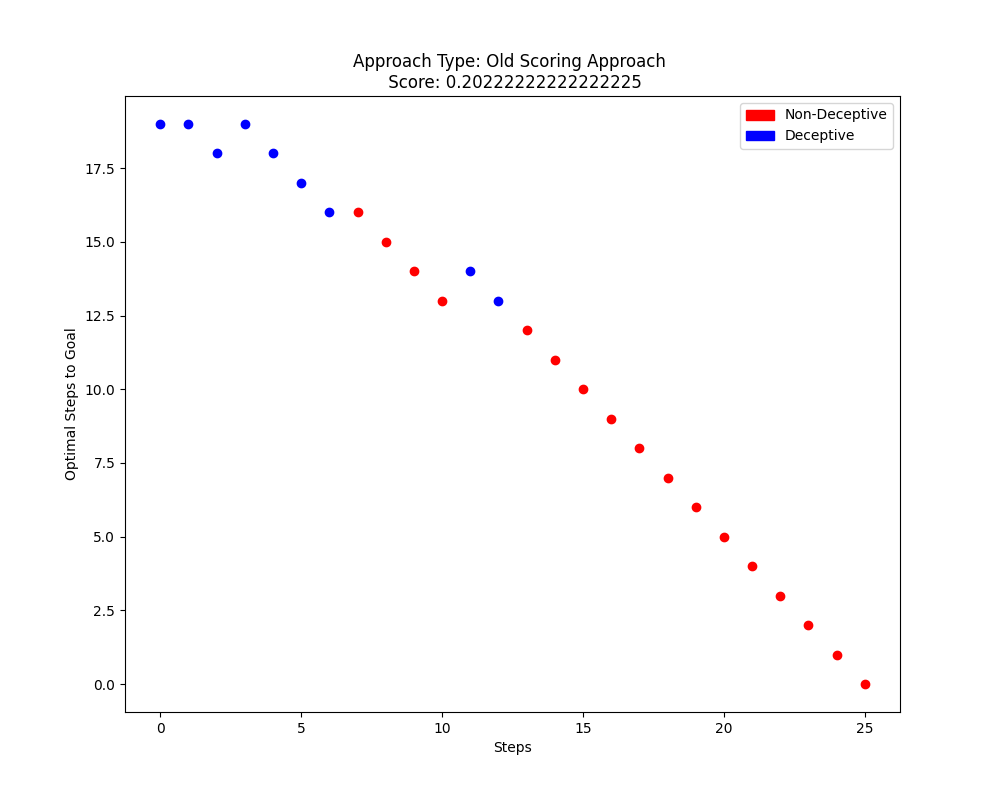
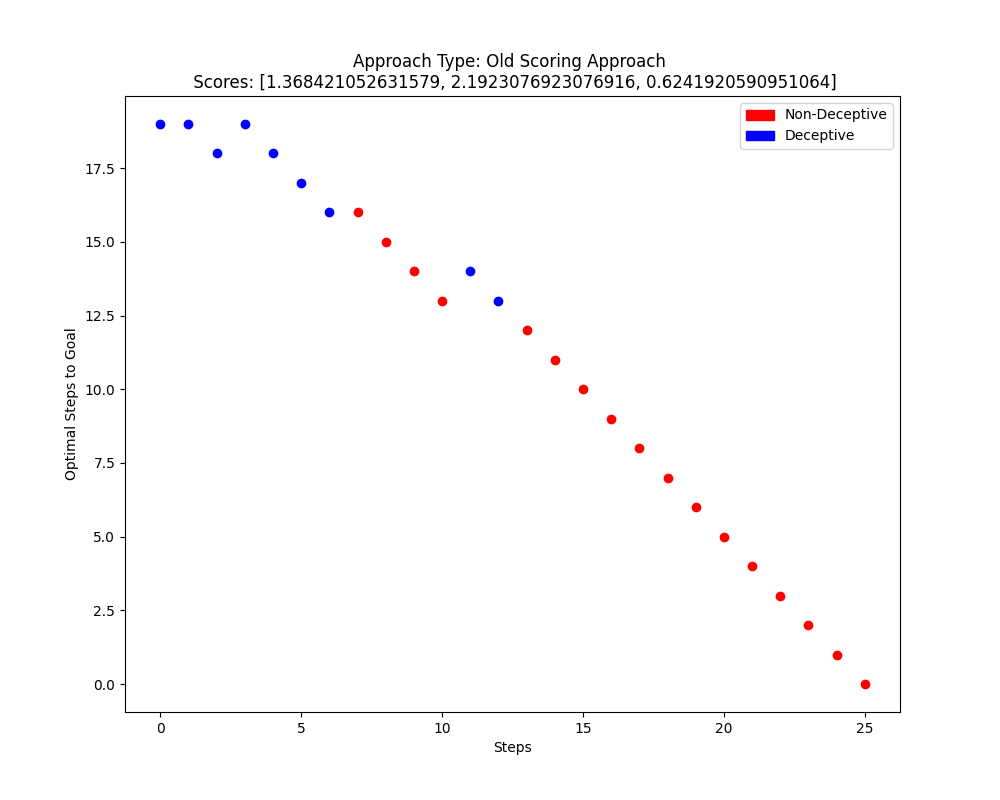
checkpoint

Changed region(s): [[0.186, 0.0938, 0.837, 0.125]]

diff --git a/Landmark Planning/pyperplan-master/landmarkextraction.py b/Landmark Planning/pyperplan-master/landmarkextraction.py
@@ -104,7 +104,9 @@ class ExtractLandmarks():
         return os.path.join(self.TEMP_DIR, name)
 
     def parse_goal(self, goal):
+        print("parsing ", goal)
         parsedgoals = re.findall('\([A-Za-z0-9 ]*\)', goal)
+        print("parsed", parsedgoals)
         return parsedgoals
 
     def generate_optimal(self):
@@ -267,23 +269,108 @@ class NewScoringApproach(ApproachTemplate):
         mem_dict = {}
         # PICKING LANDMARKS
 
-        def ordering_score(landmark):
+        def ordering_score(landmark, foundLandmarks=[]):
+            print("F", foundLandmarks)
             ''' Order landmarks based on similiarity to the initial task '''
-            score = mem_dict.get(frozenset(landmark))
+            input()
+            core = mem_dict.get(frozenset(landmark))
+            print(landmark, score)
             if not score:
                 # calculate score if it isnt already in the dictionary
                 initialTask = self.l.initialTask
                 initialTask.goals = landmark
                 # get the landmarks of this landmark
                 landmarks = get_landmarks(initialTask)
+                print(landmarks, set(landmark).issubset(set(landmarks)))
                 if set(landmark).issubset(set(landmarks)):
                     for l in landmark:
+                        print("removed ", l)
                         landmarks.remove(l)
-                score = sum([ordering_score(self.l.parse_goal(lm))
+                foundLandmarks.append(landmark)
+                print("L", landmarks)
+                for l in landmarks:
+                    # print("HI", [l], landmarks)
+                    if [l] in foundLandmarks:
+                        # print("R2", l)
+                        landmarks.remove(l)
+                print(landmarks)
+                score = sum([ordering_score(self.l.parse_goal(lm), foundLandmarks)
                              for lm in landmarks]) + 1
                 mem_dict[frozenset(landmark)] = score
-
+            print("RETURN")
             return score
+
+        def ordering_score2(landmark, combinedLandmarks, foundLandmarks=[]):
+
+            # def list_subgoals(landmark, combinedLandmarks, foundLandmarks=[]):
+            #     print(foundLandmarks)
+            #     print(landmark)
+            #     print(landmark[0] in foundLandmarks)
+            #
+            #     if landmark[0] in foundLandmarks:
+            #         return []
+            #     initialTask = self.l.initialTask
+            #     initialTask.goals = landmark
+            #     landmarks = get_landmarks(initialTask)
+            #     print(landmarks)
+            #     print("~~~~~~~~~~~~")
+            #     # input()
+            #     filteredLandmarks = list(filter(lambda l: [l] in combinedLandmarks and [
+            #         l] != landmark, landmarks))
+            #
+            #     for l in filteredLandmarks:
+            #         # print(l, filteredLandmarks)
+            #         removed = list(
+            #             filter(lambda x: x != l, filteredLandmarks))
+            #         subs = list_subgoals(
+            #             [l], combinedLandmarks, foundLandmarks + removed)
+            #         filteredLandmarks = filteredLandmarks + subs
+            #         foundLandmarks = foundLandmarks + subs
+            #     return filteredLandmarks
+            #
+            # subs = list_subgoals(landmark, combinedLandmarks)
+            # print(subs)
+            # return len(subs)
+
+            # input()
+            # print("STARTING FROM", landmark)
+            # print("~")
+            # print(combinedLandmarks)
+            # print("~")
+            # print(foundLandmarks)
+            ''' The more sub-landmarks a landmark covers then the earlier it will be executed '''
+            score = mem_dict.get(frozenset(landmark))
+
+            if landmark[0] in foundLandmarks:
+                print("ALREADY FOUND")
+                return 0
+
+            if not score:
+                mem_dict[frozenset(landmark)] = 1
+
+                ''' Calculate all sub landmarks for this landmark'''
+                initialTask = self.l.initialTask
+                initialTask.goals = landmark
+                landmarks = get_landmarks(initialTask)
+                filteredLandmarks = list(filter(lambda l: [l] in combinedLandmarks and [
+                    l] != landmark, landmarks))
+                print("GENERATED LANDMARKS:", landmarks)
+
+                ''' Check how many landmarks are contained within the combinedLandmarks list'''
+                for l in filteredLandmarks:
+                    print("DIGGING INTO ", l)
+
+                    subs = ordering_score2(
+                        [l], combinedLandmarks, foundLandmarks)
+                    foundLandmarks.append(l)
+                    print(l, "had", subs)
+                    mem_dict[frozenset(landmark)] += subs
+                print("Calculated", mem_dict.get(
+                    frozenset(landmark)), landmark)
+                return mem_dict.get(frozenset(landmark))
+            else:
+                print("Pre calculated", score, landmark)
+                return score
 
         def intersection(lst1, lst2):
             lst3 = [value for value in lst1 if value in lst2]
@@ -306,7 +393,9 @@ class NewScoringApproach(ApproachTemplate):
             if landmark not in combinedLandmarks:
                 combinedLandmarks.append(landmark)
         sortedLandmarks = sorted(
-            combinedLandmarks, key=lambda landmark: ordering_score(landmark))
+            combinedLandmarks, key=lambda landmark: ordering_score2(landmark, combinedLandmarks))
+        print(mem_dict)
+        # input()
         sortedLandmarks.append(self.l.getRealGoal(True))
         return(sortedLandmarks)
 
@@ -394,6 +483,9 @@ class ApproachTester():
             orderedPath = approach(self.l).generate()
             task, steps, deception_array = functools.reduce(
                 pathToGoal, orderedPath, (initialTask, 0, []))
+            _, _, optimal_deception_array = functools.reduce(
+                pathToGoal, [orderedPath[-1]], (_ground(problem), 0, []))
+
             calc = self.l.getRealGoal(True)
 
             rmp = self.generate_rmp()
@@ -404,18 +496,40 @@ class ApproachTester():
             score = (len(deception_array) - self.l.optimal_plans[self.l.realGoalIndex]) / \
                 ((deceptive_steps / len(deception_before_rmp)) * 100)
 
+            deceptivePercent = (len(deception_array) - rmp) / \
+                (self.l.optimal_plans[self.l.realGoalIndex] - rmp)
+
+            truthfulSteps = len(deception_array) - deceptive_steps
+            deceptiveness = 1 - (truthfulSteps / len(deception_array))
+
+            optimal_deception_before_rmp = optimal_deception_array[: len(
+                optimal_deception_array) - math.ceil(rmp)]
+            optimal_deceptive_steps = len(
+                list(filter(lambda x: not x[0], optimal_deception_before_rmp)))
+
+            optimalTruthfulSteps = len(
+                optimal_deception_array) - optimal_deceptive_steps
+            optimalDeceptiveness = 1 - \
+                (optimalTruthfulSteps / len(optimal_deception_array))
+
+            deceptiveness = (1 -
+                             (truthfulSteps / len(deception_array))) / optimalDeceptiveness
+
+            combined = deceptivePercent / deceptiveness
+            scores = [deceptivePercent, deceptiveness, combined]
+
             # check that the goal is indeed reached
             # assert calc.issubset(task.initial_state)
             print(f"FINAL RESULT: {steps} steps taken to reach final goal.")
             deceptive_stats = self.calc_deceptive_stats(deception_array)
-            self.plot(deception_array, approach, score)
+            self.plot(deception_array, approach, scores)
             print(f"Density of deception: {deceptive_stats[0]}")
             print(f"Extent of deception: {deceptive_stats[1]}")
 
-    def plot(self, deception_array, approach, score):
+    def plot(self, deception_array, approach, scores):
         dir = "temp/"
         plt.figure(figsize=(10, 8))
-        plt.title(f"Approach Type: {approach.NAME} \n Score: {score}")
+        plt.title(f"Approach Type: {approach.NAME} \n Scores: {scores}")
         pathlength = self.l.optimal_plans[self.l.realGoalIndex]
         df = pd.DataFrame(deception_array, columns=[
             'deceptive', 'deceptiveness'])
@@ -571,6 +685,6 @@ if __name__ == "__main__":
             extracted = ExtractLandmarks(
                 domaindir, hypsdir, realhypdir, templatedir, debug=True)
 
-            a1 = ApproachTester(
-                BaselineApproach, GoalToRealGoalApproach, OldScoringApproach, NewScoringApproach, MostCommonLandmarks, extracted=extracted)
+            a1 = ApproachTester(BaselineApproach, GoalToRealGoalApproach, OldScoringApproach,
+                                NewScoringApproach, MostCommonLandmarks, extracted=extracted)
             a1.testApproaches()
